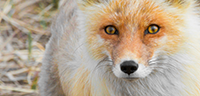
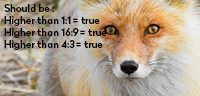
fix bug

Changed region(s): [[0.0, 0.1562, 0.54, 0.5312], [0.0, 0.0312, 0.27, 0.125]]

diff --git a/lib/image-ratios.js b/lib/image-ratios.js
@@ -1,0 +1,2 @@
+!function(t,e){"object"==typeof exports&&"object"==typeof module?module.exports=e():"function"==typeof define&&define.amd?define([],e):"object"==typeof exports?exports["image-ratios"]=e():t["image-ratios"]=e()}(this,function(){return function(t){function e(n){if(r[n])return r[n].exports;var o=r[n]={i:n,l:!1,exports:{}};return t[n].call(o.exports,o,o.exports,e),o.l=!0,o.exports}var r={};return e.m=t,e.c=r,e.d=function(t,r,n){e.o(t,r)||Object.defineProperty(t,r,{configurable:!1,enumerable:!0,get:n})},e.n=function(t){var r=t&&t.__esModule?function(){return t.default}:function(){return t};return e.d(r,"a",r),r},e.o=function(t,e){return Object.prototype.hasOwnProperty.call(t,e)},e.p="",e(e.s=0)}([function(t,e,r){"use strict";var n=r(1),o=function(t){return(0,n.queryToArray)(document.querySelectorAll(t))},i=document.body,u=[{name:"1-1",value:1},{name:"16-9",value:16/9},{name:"4-3",value:4/3}];new MutationObserver(function(t){t.forEach(function(){o("img:not([data-biggest-dimension])").forEach(function(t){var e=new Image;e.addEventListener("load",function(){var r=e.height,n=e.width;u.forEach(function(e){t.setAttribute("data-higher-than-ratio-"+e.name,n/r>e.value)}),t.setAttribute("data-biggest-dimension",r>n?"height":"width")}),e.src=t.getAttribute("src")})})}).observe(i,{childList:!0,subtree:!0})},function(t,e,r){"use strict";function n(t){if(Array.isArray(t)){for(var e=0,r=Array(t.length);e<t.length;e++)r[e]=t[e];return r}return Array.from(t)}Object.defineProperty(e,"__esModule",{value:!0});e.queryToArray=function(t){return[].concat(n(t))},e.isOrContains=function(t,e){return t===e||t.contains(e)},e.updateState=function(t,e,r){t.getAttribute(e)!==r&&t.setAttribute(e,r)}}])});
+//# sourceMappingURL=image-ratios.js.map

diff --git a/src/js/image-ratios.js b/src/js/image-ratios.js
@@ -8,7 +8,7 @@ const target = document.body;
 const ratios = [
   { name: '1-1', value: 1 },
   { name: '16-9', value: 16 / 9 },
-  { name: '4-3', value: 3 / 4 }
+  { name: '4-3', value: 4 / 3 }
 ];
 
 // Create an observer instance

diff --git a/README.md b/README.md
@@ -1,26 +1,5 @@
-# CLIC - CLAC
+# IMAGE-RATIOS
 
 ## HOW TO USE
 
-import `clic-clac` in your main js file (or simply embed it via a `<script>` tag)
-
-## EXPAND
-
- Put `data-expand` on the button controlling the expand of an element
-`data-controls="idOfTheControlledElement"` tells the lib which element this button is controlling  
-`data-expand-default-state`sets the default aria state of the element
-
-## TABLIST
-
-Set a *data-tablist* attribute on the element that will be the tablist,
-the value of the attribute
-is the name of the tablist, you can leave it blank and use
-the id attribute (used to fill the aria-owns attribute later)
-You can specify if the tablist is multiselectable with the *data-multiselectable* attribute.
-On each tab button, set a *data-tab-for* attribute which value is the id
-of the controlled tab panel.  
-Set a *data-owner* attribute 
-to specify the tablist that owns the tab.  
-
-Set a *data-expand-default-state* attribtue to true or false if you want
-to specify a default state for this tab
+simply import `image-ratios` in your main js file (or simply embed it via a `<script>` tag)
